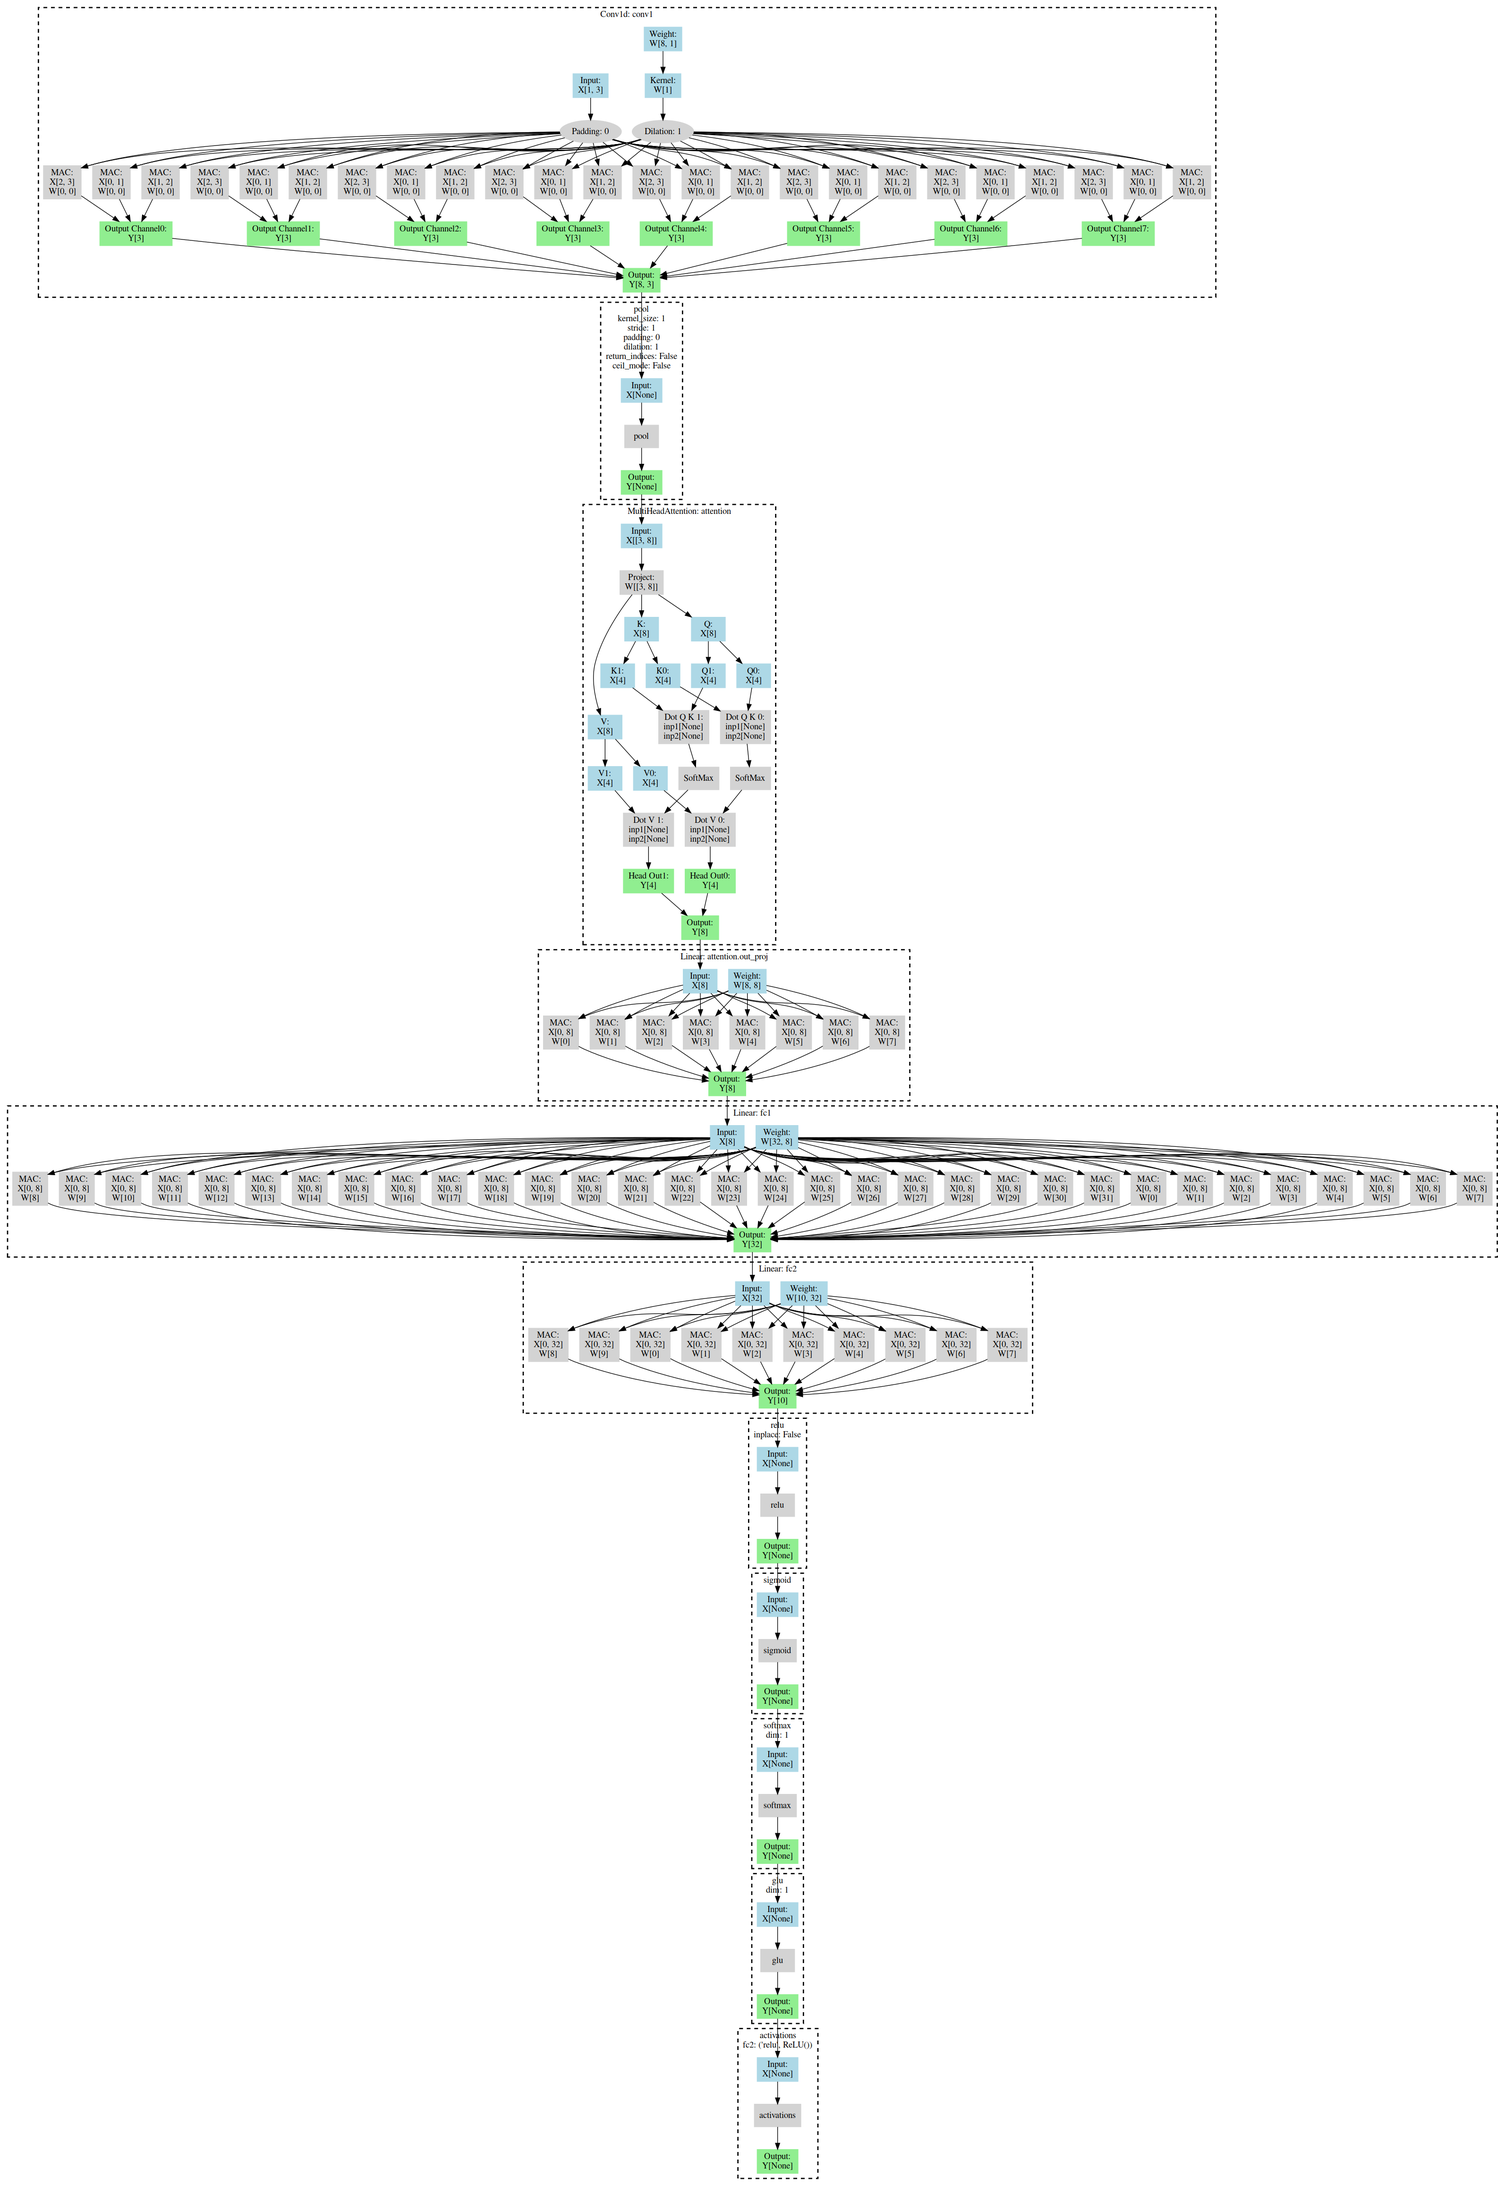
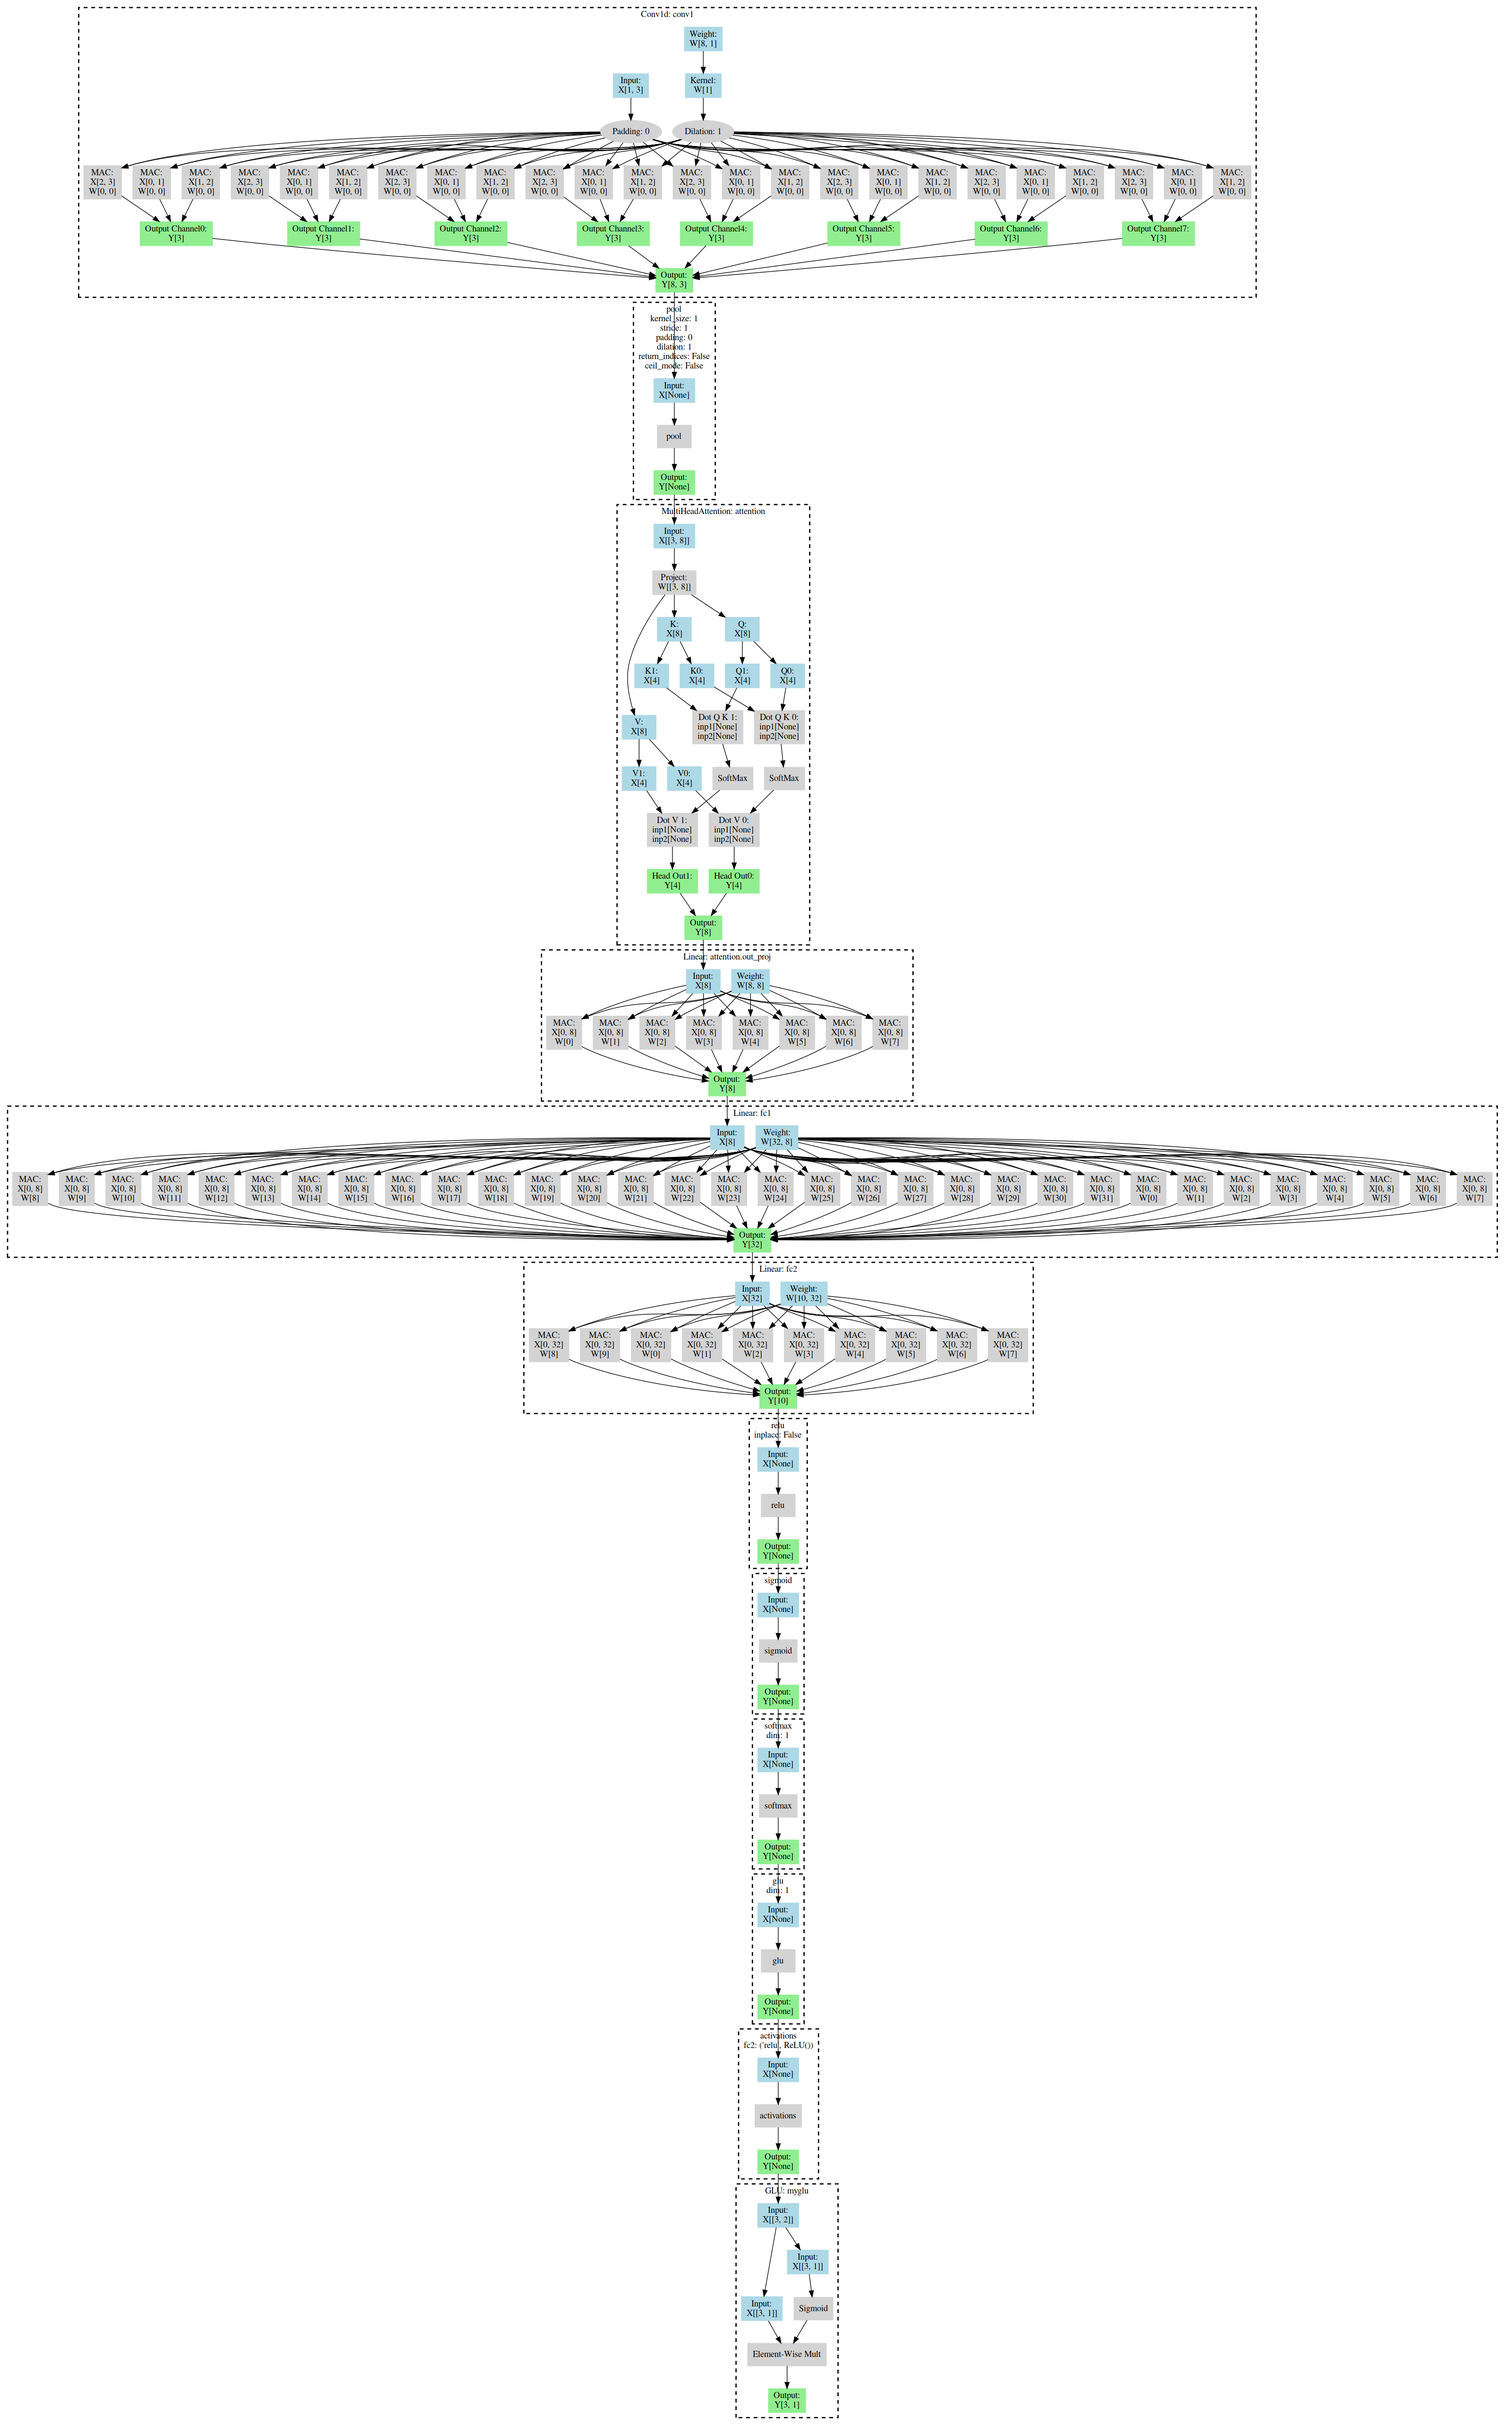
glu implemented

Changed region(s): [[0.0, 0.0, 0.994, 1.0]]

diff --git a/nngraph/layer.py b/nngraph/layer.py
@@ -11,6 +11,7 @@ class LayerType(Enum):
     CONV2D=2
     LINEAR=3
     MH_ATTENTION=4
+    ACTIVATION=5
     UNKNOWN=0
 
 class Layer(nx.DiGraph):
@@ -57,6 +58,11 @@ class Layer(nx.DiGraph):
 
         self.add_edge(self.get_node('Input'+self.name), self.get_node('OP'+self.name))
         self.add_edge(self.get_node('OP'+self.name), self.get_node('Output'+self.name))
+
+    def get_output_shape(self):
+        output = self.get_node("Output" + self.name)
+        assert(isinstance(output, OutputOP))
+        return output.shape
 
     def get_visual(self):
         dot = Digraph('cluster_' + self.name)
@@ -384,4 +390,41 @@ class MHAttentionLayer(Layer):
         # macs
         for i in range(self.num_heads):
             self.add_edge(self.get_node("HeadOutput" + str(i) + self.name), self.get_node("Output" + self.name))
-  
+
+class GluLayer(Layer):
+    def __init__(self, name, input_shape, dim=-1, label="GLU"):
+        super().__init__(name, LayerType.ACTIVATION,  label+": "+name, False)
+        self.input_shape=input_shape
+        self.dim=dim
+
+        self._build_operations()
+
+    def get_torch(self):
+        return nn.GLU(self.dim)
+
+    def __calc_out_shape(self):
+        out_shape=self.input_shape.copy()
+        out_shape[self.dim] = out_shape[self.dim] // 2
+        return out_shape
+
+    def _build_operations(self):
+        # blue
+        self.add_node(InputOP("Input" + self.name, [self.input_shape]))
+        self.add_input(self.get_node('Input'+self.name))
+        self.add_node(InputOP("Input1" + self.name, [self.__calc_out_shape()]))
+        self.add_node(InputOP("Input2" + self.name, [self.__calc_out_shape()]))
+        self.add_edge(self.get_node("Input" + self.name), self.get_node("Input1" + self.name))
+        self.add_edge(self.get_node("Input" + self.name), self.get_node("Input2" + self.name))
+
+        #green
+        self.add_node(OutputOP("Output" + self.name, self.__calc_out_shape()))
+        self.add_output(self.get_node('Output'+self.name))
+
+        self.add_node(Operation("Sigmoid" + self.name, label="Sigmoid"))
+        self.add_edge(self.get_node("Input2" + self.name), self.get_node("Sigmoid" + self.name))
+
+        self.add_node(Operation("Element-Wise Mult" + self.name, label="Element-Wise Mult"))
+        self.add_edge(self.get_node("Sigmoid" + self.name), self.get_node("Element-Wise Mult" + self.name))
+        self.add_edge(self.get_node("Input1" + self.name), self.get_node("Element-Wise Mult" + self.name))
+        
+        self.add_edge(self.get_node("Element-Wise Mult" + self.name), self.get_node("Output" + self.name))

diff --git a/test.py b/test.py
@@ -2,20 +2,24 @@ import torch
 import matplotlib.pyplot as plt
 import networkx as nx
 from nngraph.graph import Graph
+import numpy as np
 
-g = Graph()
-g.visualize()
+# g = Graph()
+# g.visualize()
 
-# lg = list(g.nodes())[0]
-# pos = nx.nx_agraph.graphviz_layout(g, prog='dot')
-    # pos = {n: (n, n) for n in g} 
-    # nx.draw(lg, pos, with_labels=True, node_size=200, node_color='lightblue', font_size=3)
+# # lg = list(g.nodes())[0]
+# # pos = nx.nx_agraph.graphviz_layout(g, prog='dot')
+#     # pos = {n: (n, n) for n in g} 
+#     # nx.draw(lg, pos, with_labels=True, node_size=200, node_color='lightblue', font_size=3)
 
-# nx.draw(g, pos, with_labels=True, node_color='lightblue', edge_color='gray', node_size=20, font_size=3)
-# for node in g.nodes():
-#     subgraph = node
-#     if subgraph.number_of_nodes() > 0:
-#         sub_pos =  nx.nx_agraph.graphviz_layout(subgraph, prog='dot')  # Position for subgraph nodes
-#         nx.draw(subgraph, pos=sub_pos, with_labels=True, node_color='lightgreen', edge_color='black', node_size=20, font_size=3)
+# # nx.draw(g, pos, with_labels=True, node_color='lightblue', edge_color='gray', node_size=20, font_size=3)
+# # for node in g.nodes():
+# #     subgraph = node
+# #     if subgraph.number_of_nodes() > 0:
+# #         sub_pos =  nx.nx_agraph.graphviz_layout(subgraph, prog='dot')  # Position for subgraph nodes
+# #         nx.draw(subgraph, pos=sub_pos, with_labels=True, node_color='lightgreen', edge_color='black', node_size=20, font_size=3)
 
-# plt.savefig(g.output_path+'/graph_test.png', dpi=400)
+# # plt.savefig(g.output_path+'/graph_test.png', dpi=400)
+
+glu = torch.nn.GLU()
+print(glu(torch.randn(3,4,6)).shape)

diff --git a/nngraph.py b/nngraph.py
@@ -1,11 +1,9 @@
-import torch
-import matplotlib.pyplot as plt
-import networkx as nx
 from nngraph.graph import Graph
 import argparse
+from nngraph.layer import GluLayer
 
 parser = argparse.ArgumentParser()
-parser.add_argument("--input_pkl_path", default='./models/model3.pkl', type=str, help='pikle input path')
+parser.add_argument("--input_pkl_path", default='./models/model_big.pkl', type=str, help='pikle input path')
 parser.add_argument('--output_path', default='./nngraph/outputs', type=str, help='output images path')
 parser.add_argument("--config_file_path", default='./nngraph/layer_config.json', type=str, help="config file path")
 parser.add_argument("--excluded_params", default=["weight", "in_proj_weight", "in_proj_bias", "bias"], type=list, help="Parameters to exclude when building graph")
@@ -17,4 +15,5 @@ args = parser.parse_args()
 args.do_lower_case = True
 
 g=Graph(args.input_pkl_path, args.output_path, args.config_file_path, args.excluded_params)
+g.add_layer(GluLayer("myglu", [3,2]))
 g.visualize(args.visualize_operational, args.visualize_layers, args.visualize_torch_funcs)

diff --git a/nngraph/graph.py b/nngraph/graph.py
@@ -1,7 +1,5 @@
 import torch
 from graphviz import Digraph
-import matplotlib.pyplot as plt
-import matplotlib.image as mpimg
 import pickle
 import torch.nn as nn
 from enum import Enum
@@ -9,7 +7,6 @@ import networkx as nx
 from nngraph.layer import *
 import json
 from torchviz import make_dot
-
 
 class Graph(nx.DiGraph):
     def __init__(self, input_pkl_path='./models/model3.pkl', output_path='./nngraph/outputs',
